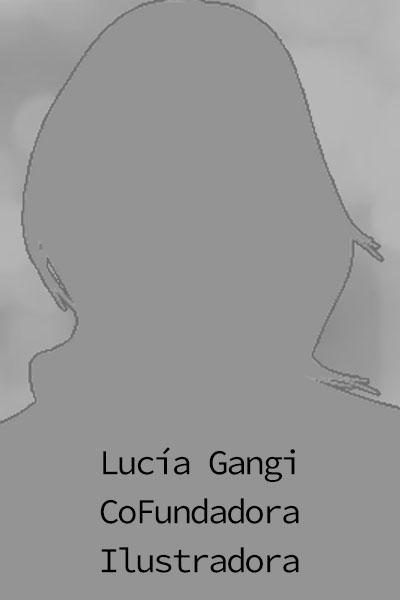
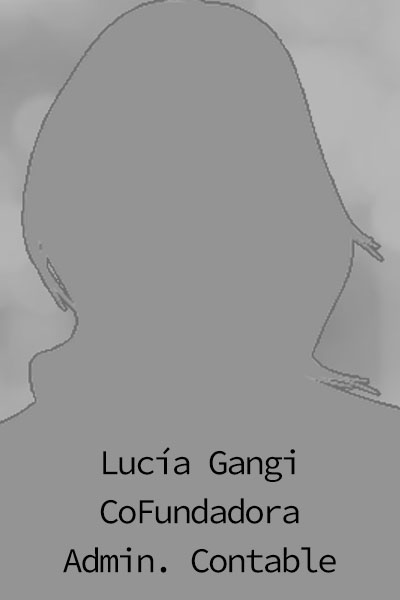
Commit 30-06 15:26 Corregido perfil Lu en vista general. Versión Beta 1.4

Changed region(s): [[0.15, 0.9, 0.84, 0.96]]

diff --git a/estilos.css b/estilos.css
@@ -251,33 +251,6 @@ td{
     max-width: 1vw;
 }
 
-/* .TituloTabla3{
-    font-size: 3vw;
-    padding: 0px;
-    margin: 1vw 0 0 -2vw;
-    text-align: left;
-    width: 100%;
-    color: white;
-    text-shadow: 1px 0 0 black, -1px 0 0 black, 0 1px 0 black, 0 -1px 0 black, 1px 1px black, -1px -1px 0 black, 1px -1px 0 black, -1px 1px 0 black;
-}
-
-.ParrafoTabla3{
-    font-size: 1.4vw;
-    color: white;
-    text-shadow: 1px 0 0 black, -1px 0 0 black, 0 1px 0 black, 0 -1px 0 black, 1px 1px black, -1px -1px 0 black, 1px -1px 0 black, -1px 1px 0 black;
-    vertical-align: top;
-    padding: 0px;
-    margin: .5vw 0 0 -2.0vw;
-    width: 100%;
-} */
-
-/* .fototabla3{
-    width: 32vw;
-    height: 22vw;
-    padding: 0px 0px;
-    margin: 0 0 0 8vw;
-} */
-
 .fila5{
     background-image: url(/Assets/Taylor2.jpg);
     background-size: 100% 100%;
@@ -285,6 +258,34 @@ td{
     margin: 0px;
     padding: 0px;
 }
+
+.whatsapp {
+    text-rendering: optimizeLegibility !important;
+    -webkit-font-smoothing: antialiased !important;
+    box-sizing: inherit;
+    margin: 0;
+    padding: 0;
+    border: 0;
+    font: inherit;
+    text-decoration: none;
+    display: inline-block;
+    vertical-align: middle;
+    transform: perspective(1px) translateZ(0);
+    box-shadow: 0 0 1px rgba(0, 0, 0, 0);
+    position: fixed;
+    width: 60px;
+    height: 60px;
+    bottom: 30px;
+    right: 40px;
+    background-image: url(/Assets/WoodSign.png);
+    background-size: 250%;
+    background-position: center;
+    color: #FFF;
+    border-radius: 50px;
+    text-align: center;
+    font-size: 30px;
+    z-index: 100;
+    }
 
 .footer{
     position: sticky;

diff --git a/index.html b/index.html
@@ -142,6 +142,8 @@
 
     </main>
 
+    <a href="https://wa.me/5493415002361" class="whatsapp hvr-bob" target="_blank"> </a>
+
     <footer class="footer">
         <div>
             <p class="footertexto" >©P1ayerOne - Todos los derechos reservados - byFLyC0De</p>
